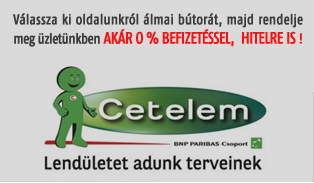
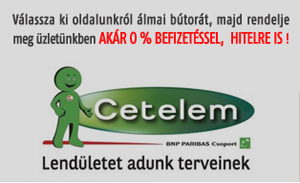
stilus css alsó-szélső csempékre + a bankos képet megvágtam 300px-re

diff --git a/stilus.css b/stilus.css
@@ -201,7 +201,10 @@ body{
    width: 150px;
    float: left;
 }
-
+.cimlap_csempe_kep2{
+   width: 300px;
+   float: center;
+}
 .cimlap_csempe_kep img{
    float: left;
 }
@@ -213,7 +216,13 @@ body{
    height: 158px !important;
    text-align: center;
 }
-
+.cimlap_csempe_szoveg2{
+   padding: 14px 10px 10px 10px;
+   color: #35312e;
+   font-size: 13px;
+   height: 158px !important;
+   text-align: left;
+}
 #lablec{
     background-color: #35312e;
     height: 110px;
@@ -267,8 +276,8 @@ body{
 .termek_lista img{
     width: 80%;
     border: 1px solid #667;
-	display: inline-block;
-	vertical-align: middle;
+    display: inline-block;
+    vertical-align: middle;
     line-height: normal; 
 }
 
